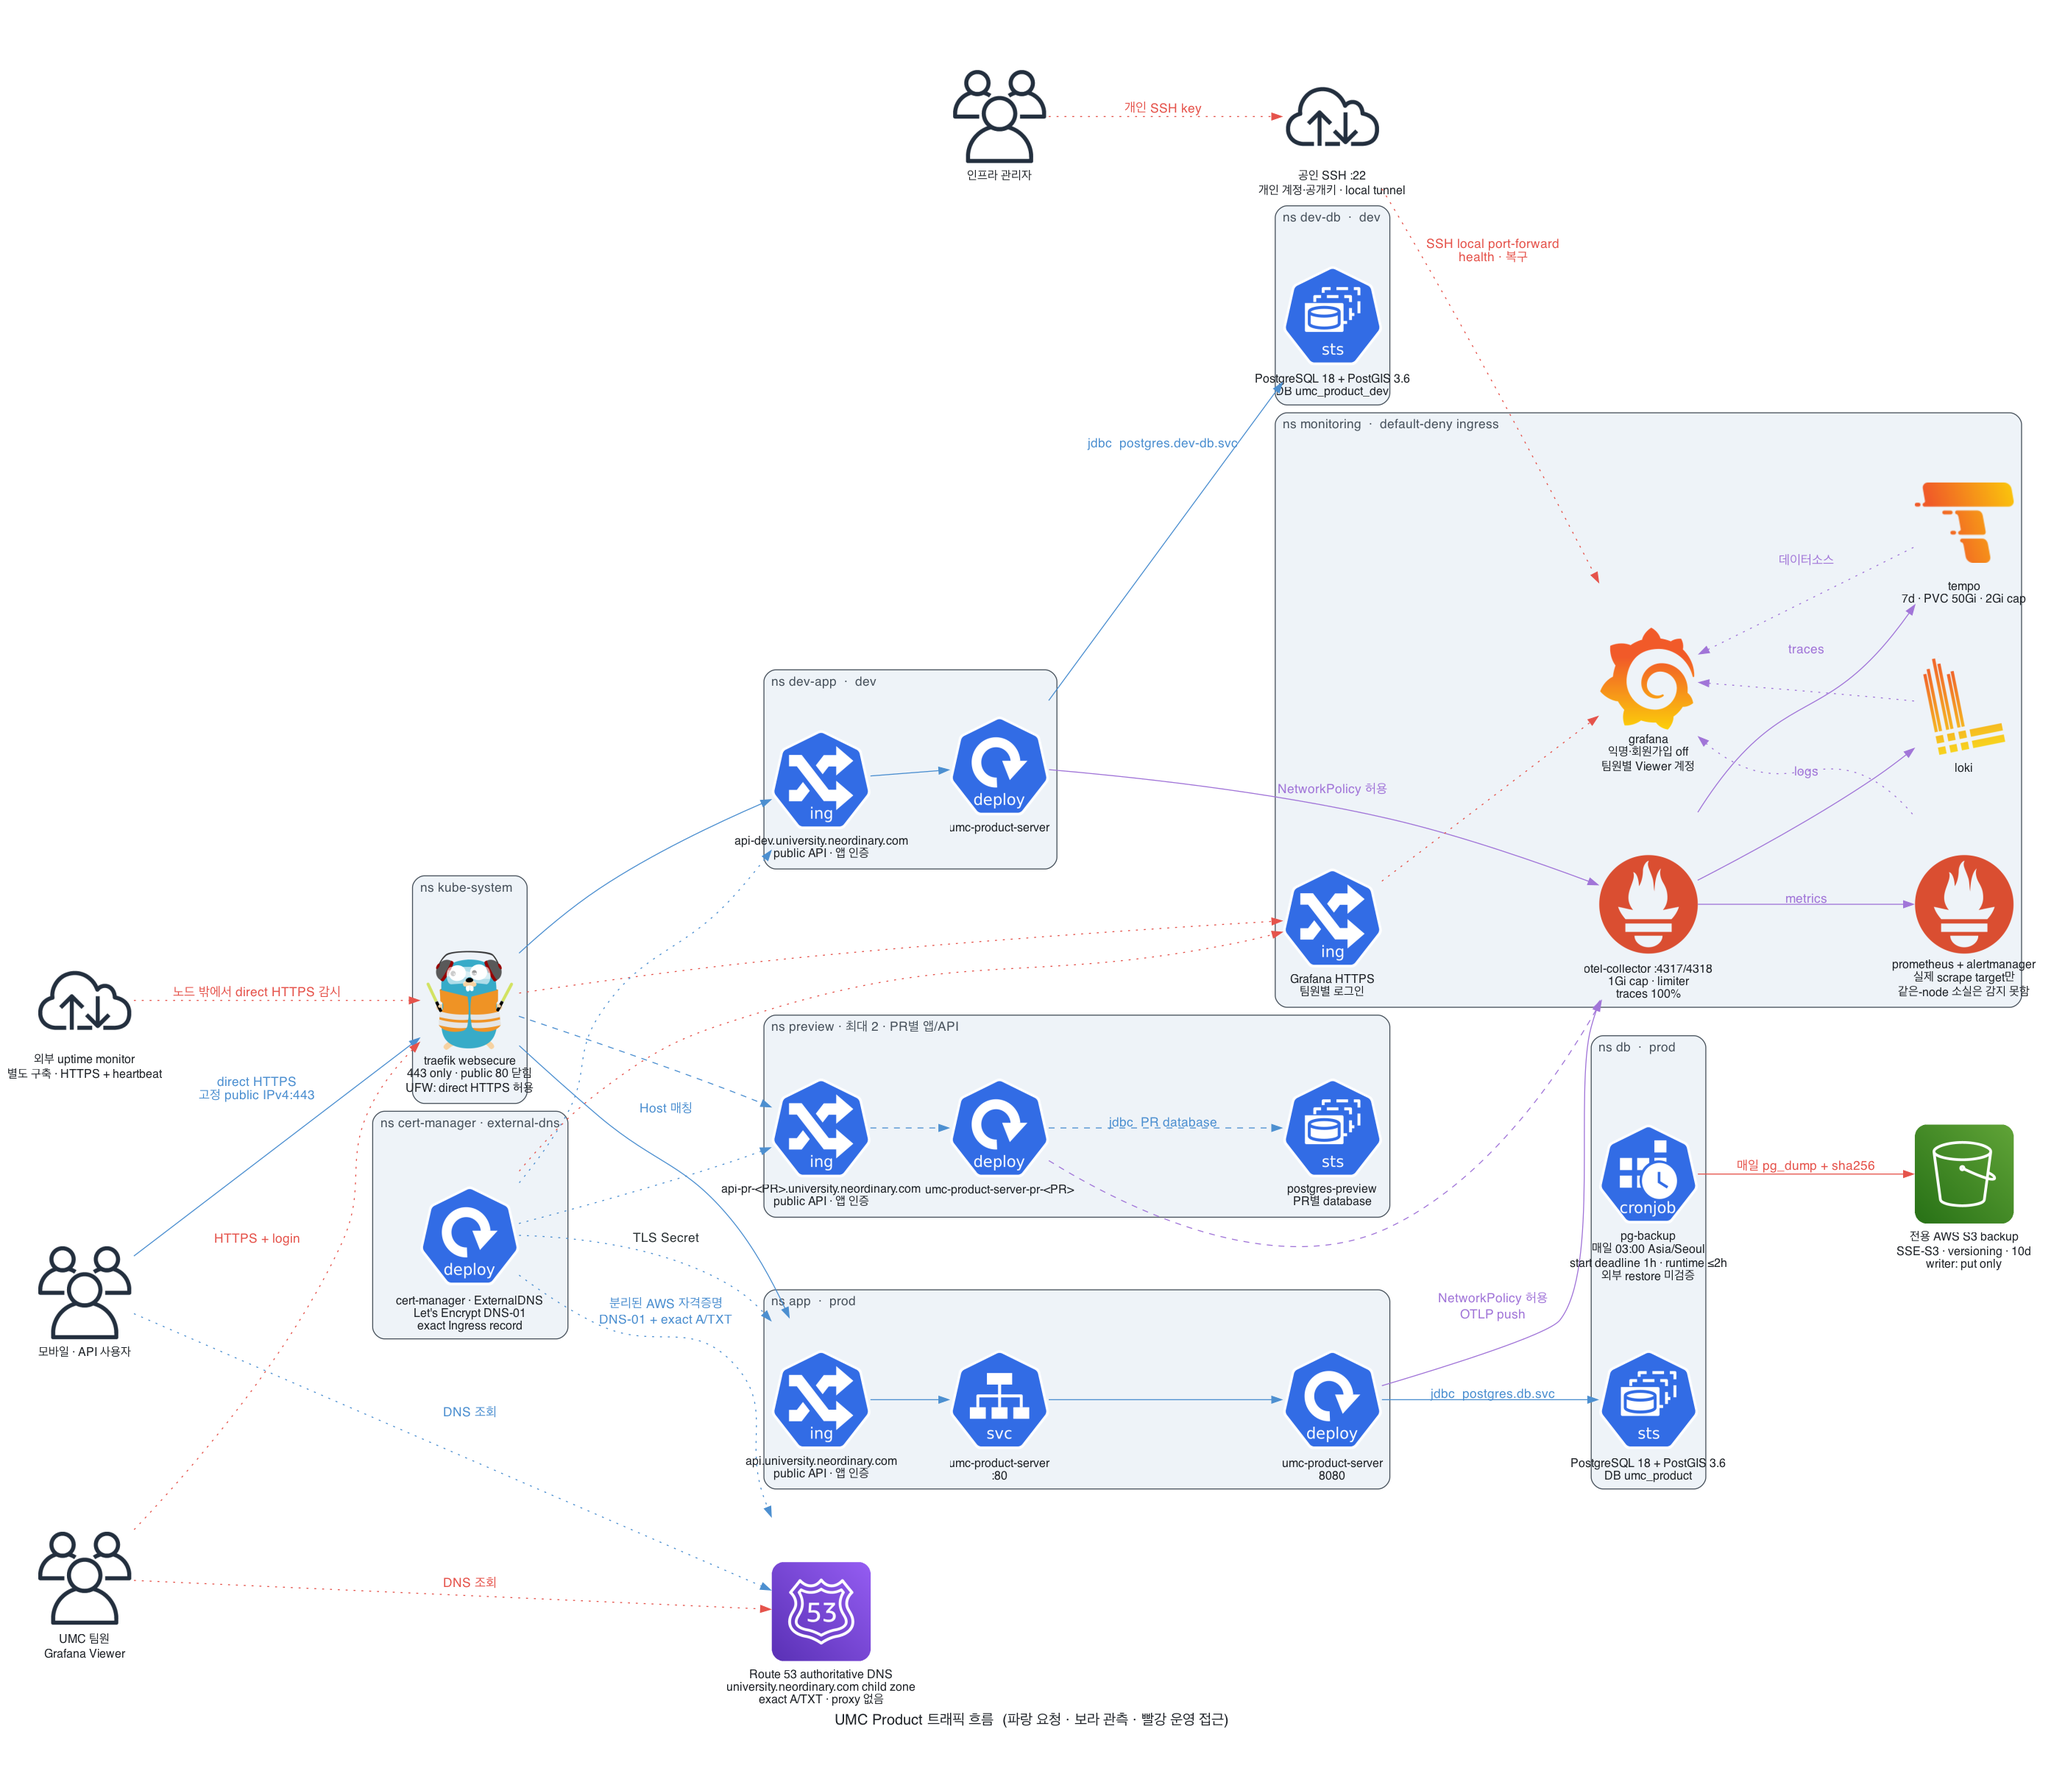
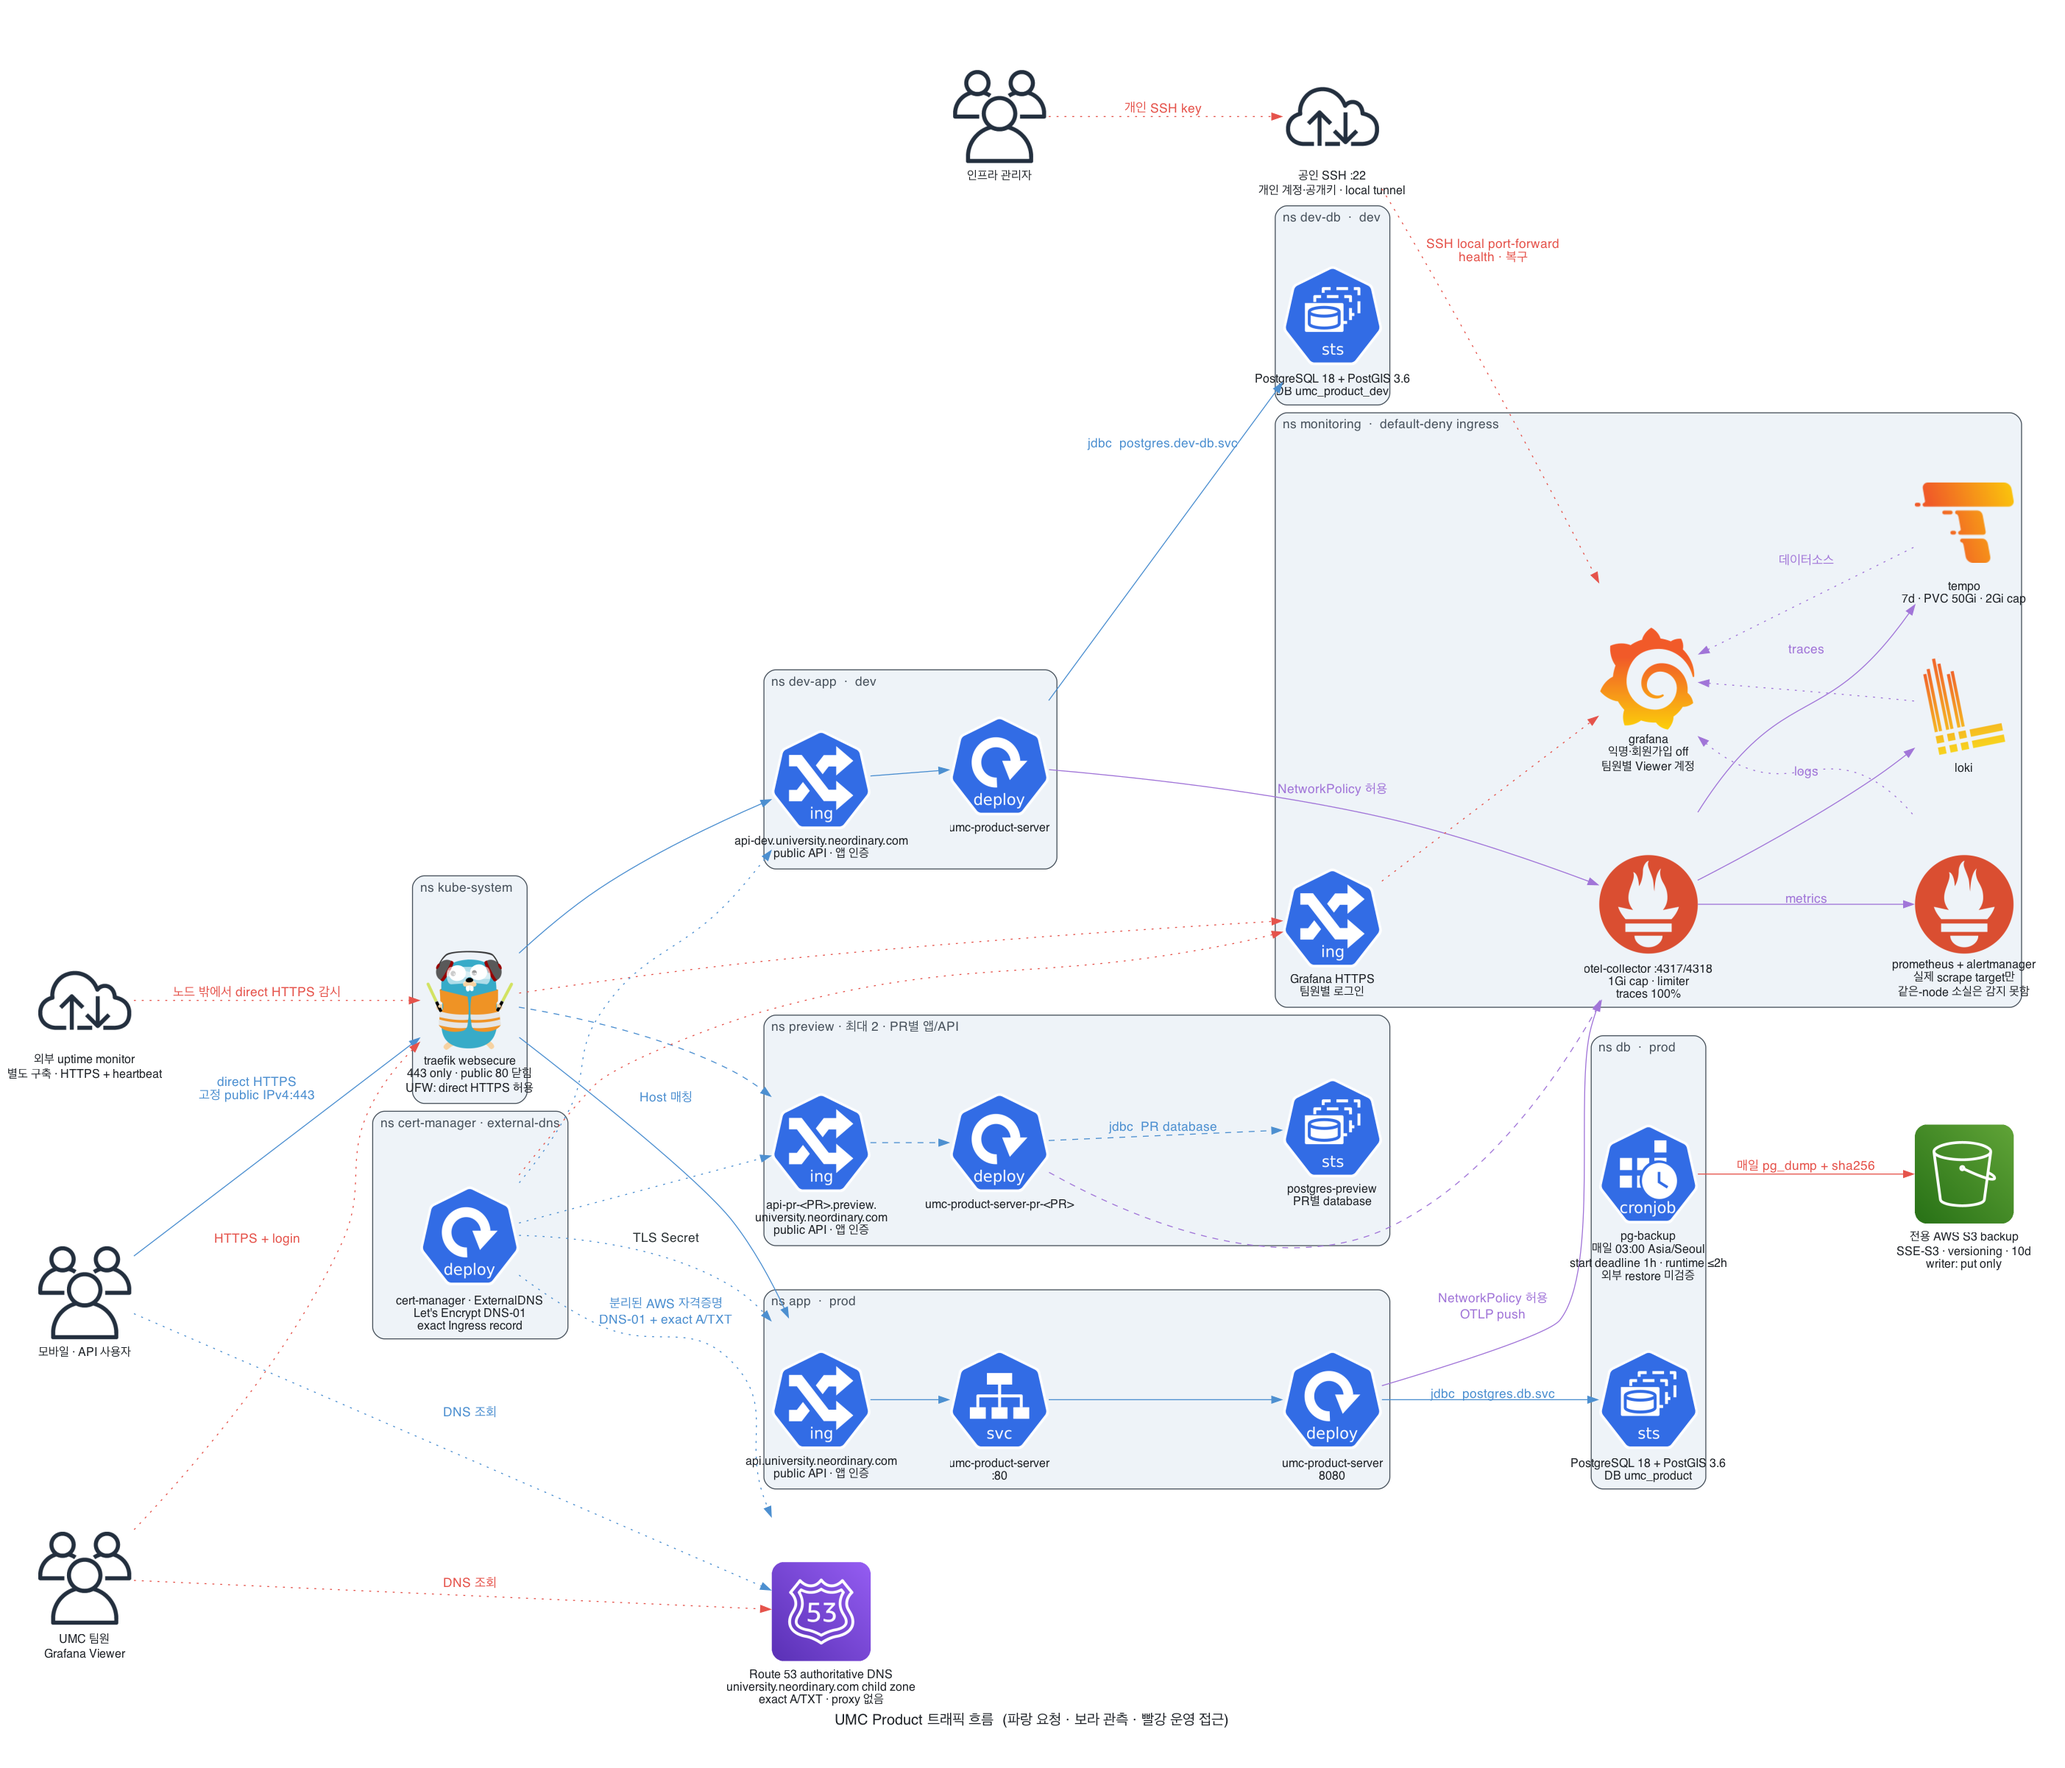
docs: Preview 주소와 그림을 preview 하위 도메인 기준으로 갱신

Changed region(s): [[0.3721, 0.593, 0.5271, 0.7179], [0.5581, 0.6242, 0.5891, 0.6554], [0.31, 0.593, 0.3411, 0.6242]]

diff --git a/docs/umc-infra-control-room.html b/docs/umc-infra-control-room.html
@@ -1035,7 +1035,7 @@
                 </tr>
                 <tr>
                   <td><strong>preview</strong></td><td>trusted PR + label</td><td><code>preview</code></td>
-                  <td class="wide">api-pr-&lt;PR&gt;.university.neordinary.com</td><td><code>umc_product_pr&lt;N&gt;</code></td>
+                  <td class="wide">api-pr-&lt;PR&gt;.preview.university.neordinary.com</td><td><code>umc_product_pr&lt;N&gt;</code></td>
                   <td>마지막 발행 성공 SHA + digest</td><td><span class="status-chip is-ready">PR별</span></td>
                 </tr>
               </tbody>

diff --git a/docs/diagrams/preview_env.py b/docs/diagrams/preview_env.py
@@ -73,13 +73,13 @@ def build(theme: dict) -> None:
                 fontcolor=fg,
             )
             certificate = Secret(
-                "공용 wildcard Certificate\n*.university.neordinary.com\nPR 삭제 후에도 유지",
+                "공용 wildcard Certificate\n*.preview.university.neordinary.com\nPR 삭제 후에도 유지",
                 fontcolor=fg,
             )
             with Cluster("PR별 리소스 · ApplicationSet이 Deployment/Ingress 활성화", graph_attr=ca):
                 service = Service("umc-product-server-pr-42\nService quota로 자리 확보", fontcolor=fg)
                 ingress = Ingress(
-                    "api-pr-42.university.neordinary.com\nExternalDNS exact record",
+                    "api-pr-42.preview.university.neordinary.com\nExternalDNS exact record",
                     fontcolor=fg,
                 )
                 app = Deployment(

diff --git a/docs/diagrams/traffic_flow.py b/docs/diagrams/traffic_flow.py
@@ -77,7 +77,7 @@ def build(theme: dict) -> None:
             pg_d = StatefulSet("PostgreSQL 18 + PostGIS 3.6\nDB umc_product_dev")
 
         with Cluster("ns preview · 최대 2 · PR별 앱/API", graph_attr=ca):
-            ing_p = Ingress("api-pr-<PR>.university.neordinary.com\npublic API · 앱 인증")
+            ing_p = Ingress("api-pr-<PR>.preview.\nuniversity.neordinary.com\npublic API · 앱 인증")
             app_p = Deployment("umc-product-server-pr-<PR>")
             pg_p = StatefulSet("postgres-preview\nPR별 database")
 

diff --git a/docs/architecture/k3s.md b/docs/architecture/k3s.md
@@ -39,7 +39,7 @@
 | D20 | 앱 Deployment는 chart 기본값 `deployment.enabled: false`. prod·dev는 values가, Preview는 ApplicationSet이 켠다 | 존재하지 않는 GHCR image로 Pod가 반복 실패하지 않게 함. BE CI의 trusted publish와 digest PR 흐름이 연결돼 prod·dev values를 갱신한다 | 새 환경을 추가할 때 image 발행 기록을 먼저 확인한 뒤 켠다 |
 | D21 | prod/dev/PR API와 운영 도구별 exact host | 모바일 직접 호출과 환경 식별이 명확한 host 계약 | API gateway 또는 별도 cluster 도입 시 재검토 |
 | D22 | `university.neordinary.com` child zone을 Route 53으로 위임하고 exact record는 ExternalDNS가 관리 | DNS 권한과 workload record lifecycle 분리; Terraform은 사용하지 않음 | 상위 DNS 운영 주체나 도메인 변경 시 재검토 |
-| D23 | Route 53 direct A record + cert-manager DNS-01; Preview는 `*.university.neordinary.com` Certificate와 `preview-wildcard-tls`를 공유 | 별도 proxy 없이 DNS·TLS 계층을 단순화하고 PR별 인증서 발급·갱신을 제거 | WAF·CDN·DDoS proxy가 실제로 필요해질 때 별도 edge 도입 |
+| D23 | Route 53 direct A record + cert-manager DNS-01; Preview는 `*.preview.university.neordinary.com` Certificate와 `preview-wildcard-tls`를 공유 | 별도 proxy 없이 DNS·TLS 계층을 단순화하고 PR별 인증서 발급·갱신을 제거 | WAF·CDN·DDoS proxy가 실제로 필요해질 때 별도 edge 도입 |
 | D24 | API와 Grafana는 direct HTTPS로 공개하고 Grafana는 local login + 기본 Viewer 계정을 사용 | 팀원은 브라우저로 dashboard를 보고 익명 접근·회원가입은 차단 | 인원이 늘어 계정 회수가 어렵거나 조직 SSO·MFA가 필요할 때 재검토 |
 | D25 | 8 vCPU, 32GiB RAM, 512GB NVMe에서 시작하고 Service quota를 DB 생성보다 먼저 예약해 preview를 최대 2개로 제한(2026-11 dev 수준 자원에 맞춰 3→2) | DB·관측 스택과 transient Job 여유를 포함한 단일 노드 운영 기준 | 관측치로 request 또는 동시 실행 수를 조정할 때 재산정 |
 | D26 | Preview는 native Google/Kakao/Apple token login만 검증 | 모바일 앱은 provider token을 API에 직접 전달해 동적 callback이 불필요 | browser OAuth가 필요해질 때 callback 설계를 별도 검토 |

diff --git a/docs/operations/diagram-maintenance.md b/docs/operations/diagram-maintenance.md
@@ -51,7 +51,7 @@ Graphviz 속성을 가진다.
 
 Preview 그림의 `preview` label은 trusted same-repository PR 검토가 끝났다는 승인이다. Preview는
 shared Secret과 shared DB role을 사용하므로 fork와 외부 코드를 실행하지 않는다. 최종 목표 API는
-`api-pr-<PR>.university.neordinary.com`이고 동시 상한은 2개다. 모바일 native token login은
+`api-pr-<PR>.preview.university.neordinary.com`이고 동시 상한은 2개다. 모바일 native token login은
 지원하지만 browser OAuth callback broker는 운영하지 않는다.
 
 ### 변경 확인
